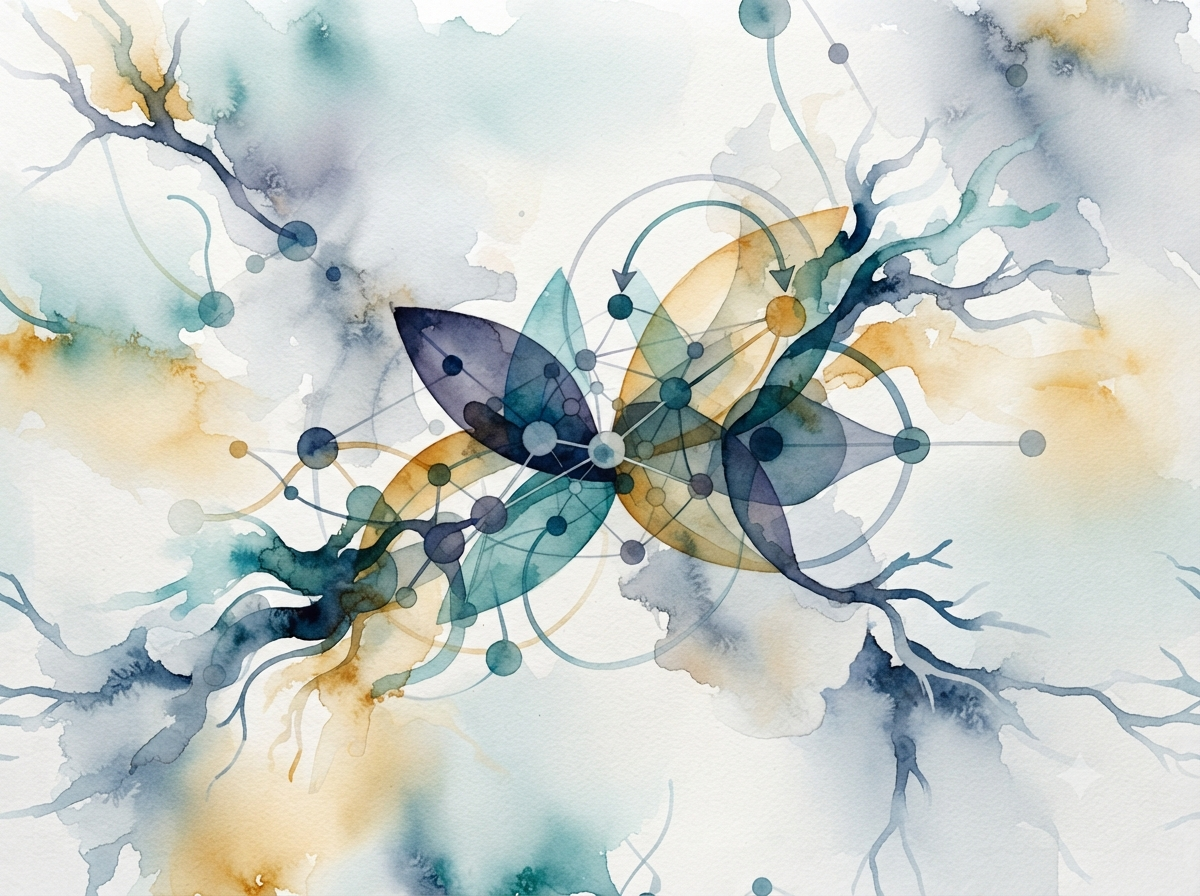
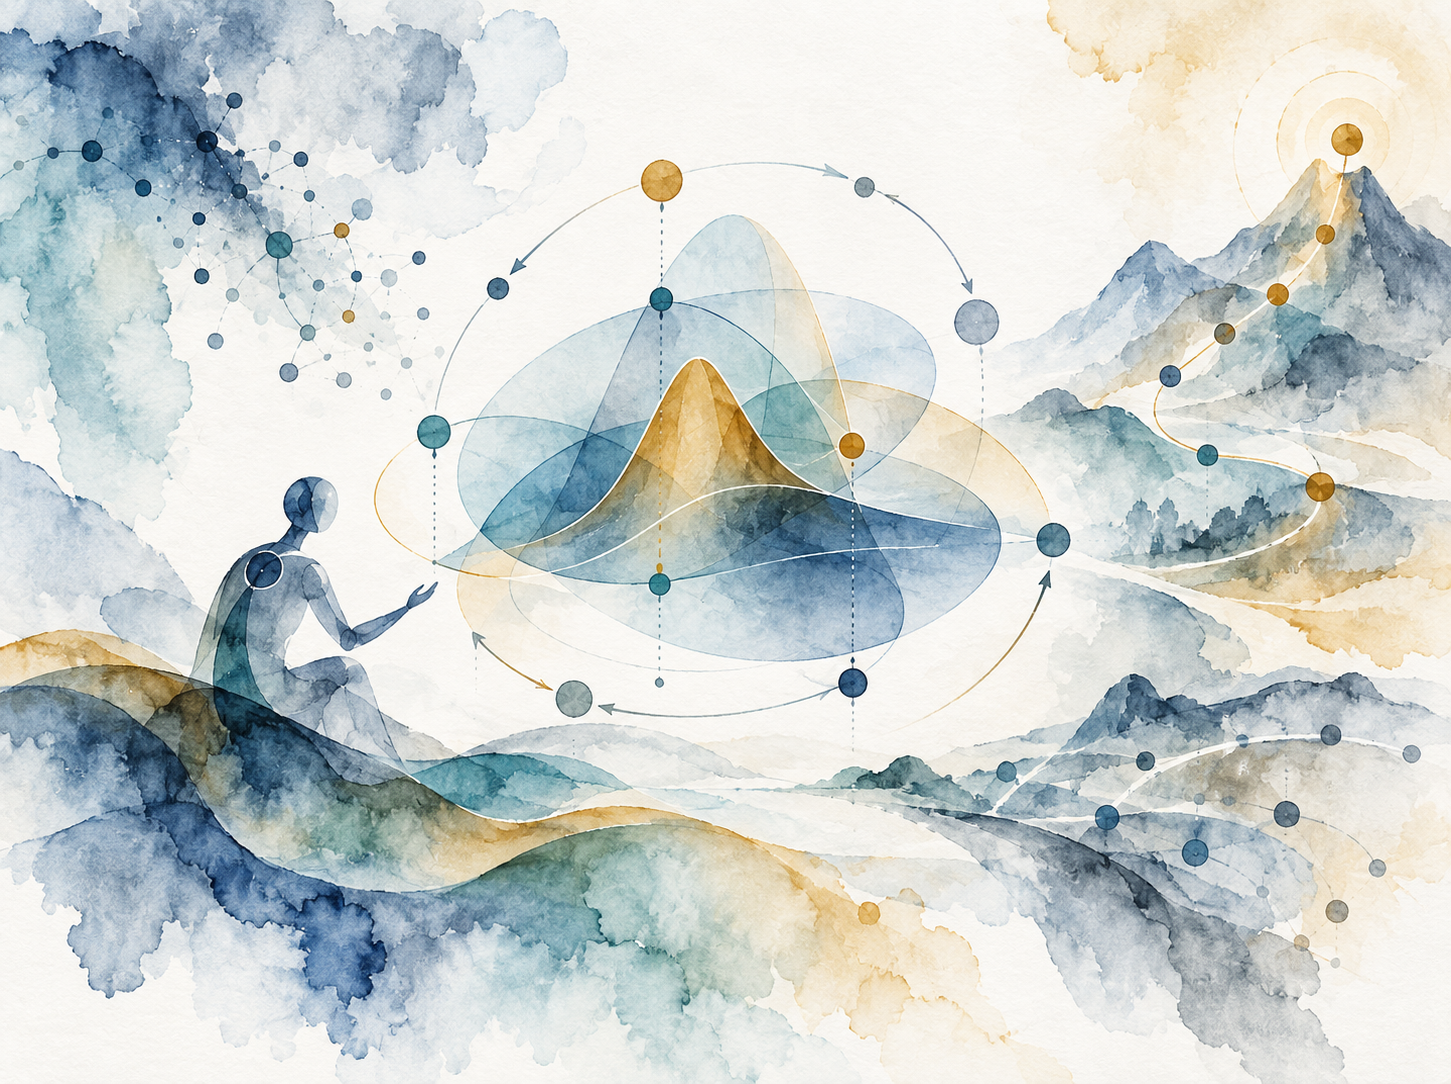
Update publications, homepage ordering, and research credits

diff --git a/static/css/style.css b/static/css/style.css
@@ -757,13 +757,21 @@ main { padding-top: var(--nav-h); }
   margin-bottom: 0.15rem;
 }
 
-.author-me { color: var(--ink); font-weight: 600; }
+.author-me { color: var(--ink); font-weight: 700; }
 
 .pub-venue {
   font-size: var(--t-foot);
   color: var(--subtle);
   margin-bottom: 0.85rem;
 }
+
+.pub-collaboration {
+  font-size: var(--t-foot);
+  color: var(--muted);
+  margin-bottom: var(--s-3);
+}
+
+.pub-venue:has(+ .pub-collaboration) { margin-bottom: var(--s-1); }
 
 .pub-links {
   display: flex;

diff --git a/templates/base.html b/templates/base.html
@@ -49,7 +49,7 @@
       <div class="footer-inner">
         <span class="footer-copy">© {{ site.name }} 2026</span>
         {% if not request.path.startswith('/visualizations/') %}
-          <span class="footer-note">Publication images generated with Nano Banana Pro</span>
+          <span class="footer-note">Publication images generated with Nano Banana and GPT Images</span>
         {% endif %}
       </div>
     </div>

diff --git a/templates/partials/pub_card.html b/templates/partials/pub_card.html
@@ -59,6 +59,10 @@
       <p class="pub-venue">{{ pub.venue }}</p>
     {% endif %}
 
+    {% if pub.collaboration %}
+      <p class="pub-collaboration">{{ pub.collaboration }}</p>
+    {% endif %}
+
     <!-- Links -->
     <div class="pub-links">
       {% if pub.html %}

diff --git a/app.py b/app.py
@@ -188,6 +188,8 @@ def parse_publications() -> list[dict]:
 
         year_str = entry.get("year", "0").strip()
         year = int(year_str) if year_str.isdigit() else 0
+        month_str = entry.get("month", "0").strip()
+        month = int(month_str) if month_str.isdigit() and 1 <= int(month_str) <= 12 else 0
 
         pub = {
             "key": entry.get("ID", ""),
@@ -196,6 +198,8 @@ def parse_publications() -> list[dict]:
             "venue": clean_latex(venue),
             "abbr": clean_latex(entry.get("abbr", "")),
             "year": year,
+            "month": month,
+            "collaboration": clean_latex(entry.get("collaboration", "")),
             "abstract": clean_latex(entry.get("abstract", "")),
             "arxiv": arxiv_url,
             "html": entry.get("html", "").strip(),
@@ -219,6 +223,7 @@ def parse_publications() -> list[dict]:
 def index():
     publications = parse_publications()
     selected = [p for p in publications if p["selected"]]
+    selected.sort(key=lambda p: (p["year"], p["month"]), reverse=True)
     return render_template("index.html", site=SITE, selected_publications=selected, is_me=is_me)
 
 
